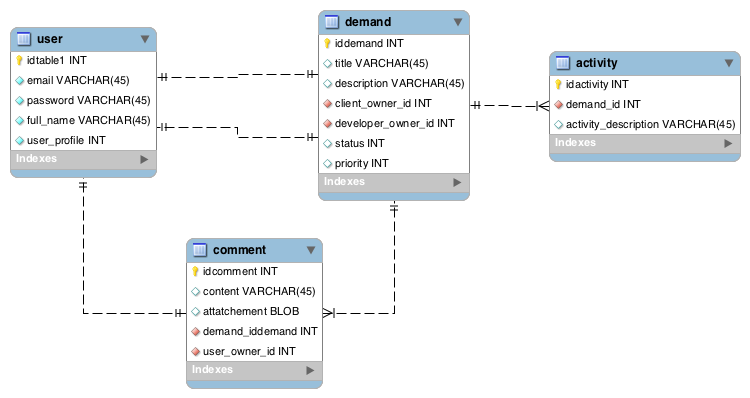
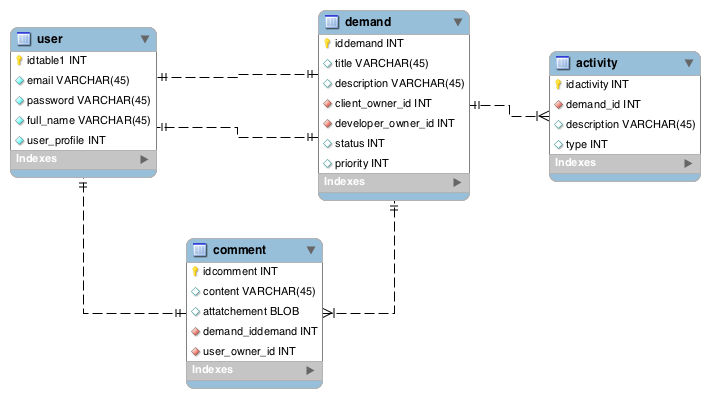
Adding the activity model

diff --git a/dKanban_api/spec/models/demand_spec.rb b/dKanban_api/spec/models/demand_spec.rb
@@ -1,0 +1,25 @@
+require 'rails_helper'
+
+RSpec.describe Demand, type: :model do
+  before { @demand = FactoryGirl.build(:demand)}
+
+  subject { @demand }
+
+  it { should respond_to(:title) }
+  it { should respond_to(:description) }
+  it { should respond_to(:client_owner_id) }
+  it { should respond_to(:developer_owner_id) }
+  it { should respond_to(:status) }
+  it { should respond_to(:priority) }
+
+  it{ should be_valid }
+
+  it { should validate_presence_of(:developer_owner_id) }
+  it { should validate_presence_of(:status) }
+  it { should validate_presence_of(:title) }
+
+  it { should belong_to :client_owner }
+  it { should belong_to :developer_owner }
+
+
+end

diff --git a/dKanban_api/spec/models/comment_spec.rb b/dKanban_api/spec/models/comment_spec.rb
@@ -1,0 +1,22 @@
+require 'rails_helper'
+
+RSpec.describe Comment, type: :model do
+  before { @comment = FactoryGirl.build(:comment)}
+
+  subject { @comment }
+
+  it { should respond_to(:content) }
+  it { should respond_to(:attatchment) }
+  it { should respond_to(:user_owner_id) }
+  it { should respond_to(:demand_id) }
+
+  it{ should be_valid }
+
+  it { should validate_presence_of(:content) }
+  it { should validate_presence_of(:user_owner_id) }
+  it { should validate_presence_of(:demand_id) }
+
+  it { should belong_to :demand }
+  it { should belong_to :user_owner }
+
+end

diff --git a/dKanban_api/db/schema.rb b/dKanban_api/db/schema.rb
@@ -11,7 +11,15 @@
 #
 # It's strongly recommended that you check this file into your version control system.
 
-ActiveRecord::Schema.define(version: 20151120141437) do
+ActiveRecord::Schema.define(version: 20151120143631) do
+
+  create_table "activities", force: :cascade do |t|
+    t.string   "description"
+    t.integer  "type"
+    t.integer  "demand_id"
+    t.datetime "created_at",  null: false
+    t.datetime "updated_at",  null: false
+  end
 
   create_table "comments", force: :cascade do |t|
     t.string   "content"

diff --git a/dKanban_api/spec/models/activity_spec.rb b/dKanban_api/spec/models/activity_spec.rb
@@ -1,0 +1,20 @@
+require 'rails_helper'
+
+RSpec.describe Activity, type: :model do
+  before { @activity = FactoryGirl.build(:activity)}
+
+  subject { @activity }
+
+  it { should respond_to(:description) }
+  it { should respond_to(:type) }
+  it { should respond_to(:demand_id) }
+
+  it{ should be_valid }
+
+  it { should validate_presence_of(:type) }
+  it { should validate_presence_of(:description) }
+  it { should validate_presence_of(:demand_id) }
+
+  it { should belong_to :demand }
+
+  end

diff --git a/dKanban_api/app/models/demand.rb b/dKanban_api/app/models/demand.rb
@@ -1,0 +1,12 @@
+class Demand < ActiveRecord::Base
+
+  validates  :title, :developer_owner_id, :status, presence: true
+
+  belongs_to :client_owner, :class_name => 'User', :foreign_key => 'client_owner_id'
+  belongs_to :developer_owner, :class_name => 'User', :foreign_key => 'developer_owner_id'
+
+  has_many :comments, :class_name => "Comment", inverse_of: :demand
+  has_many :activities, :class_name => "Activity", inverse_of: :demand
+
+
+end

diff --git a/dKanban_api/app/models/comment.rb b/dKanban_api/app/models/comment.rb
@@ -1,0 +1,12 @@
+class Comment < ActiveRecord::Base
+
+
+
+  belongs_to :user_owner, :class_name => 'User', :foreign_key => 'user_owner_id'
+  belongs_to :demand, :class_name => 'Demand', :foreign_key => 'demand_id'
+
+  validates  :user_owner_id, :demand_id, :content, presence: true
+
+  has_attached_file :attatchment, styles: { medium: "300x300>", thumb: "100x100>" }, default_url: "/images/:style/missing.png"
+
+end

diff --git a/dKanban_api/db/migrate/20151120141437_create_comments.rb b/dKanban_api/db/migrate/20151120141437_create_comments.rb
@@ -1,0 +1,20 @@
+class CreateComments < ActiveRecord::Migration
+  def change
+    create_table :comments do |t|
+      t.string :content
+      t.integer :demand_id
+      t.integer :user_owner_id
+
+      t.timestamps null: false
+    end
+  end
+
+  def up
+    add_attatchment :comments, :attatchment
+  end
+
+  def down
+    remove_attatchment :comments, :attatchment
+  end
+
+end

diff --git a/dKanban_api/db/migrate/20151120133903_create_demands.rb b/dKanban_api/db/migrate/20151120133903_create_demands.rb
@@ -1,0 +1,14 @@
+class CreateDemands < ActiveRecord::Migration
+  def change
+    create_table :demands do |t|
+      t.string :title
+      t.string :description
+      t.integer :client_owner_id
+      t.integer :developer_owner_id
+      t.integer :status
+      t.integer :priority
+
+      t.timestamps null: false
+    end
+  end
+end

diff --git a/dKanban_api/spec/factories/demands.rb b/dKanban_api/spec/factories/demands.rb
@@ -1,0 +1,12 @@
+FactoryGirl.define do
+  factory :demand do
+    title FFaker::Lorem.word.to_s
+    description FFaker::Lorem.phrase.to_s
+    client_owner factory: :user
+    developer_owner factory: :user
+    status 1
+    priority 1
+
+  end
+
+end

diff --git a/dKanban_api/db/migrate/20151120143631_create_activities.rb b/dKanban_api/db/migrate/20151120143631_create_activities.rb
@@ -1,0 +1,11 @@
+class CreateActivities < ActiveRecord::Migration
+  def change
+    create_table :activities do |t|
+      t.string :description
+      t.integer :type
+      t.integer :demand_id
+
+      t.timestamps null: false
+    end
+  end
+end

diff --git a/dKanban_api/app/models/activity.rb b/dKanban_api/app/models/activity.rb
@@ -1,0 +1,6 @@
+class Activity < ActiveRecord::Base
+
+  belongs_to :demand, :class_name => 'Demand', :foreign_key => 'demand_id'
+  validates  :type, :demand_id, :description, presence: true
+
+end

diff --git a/dKanban_api/db/migrate/20151120040207_add_user_full_name_and_profile.rb b/dKanban_api/db/migrate/20151120040207_add_user_full_name_and_profile.rb
@@ -1,0 +1,6 @@
+class AddUserFullNameAndProfile < ActiveRecord::Migration
+  def change
+    add_column :users, :full_name, :string
+    add_column :users, :profile_type, :integer
+  end
+end
